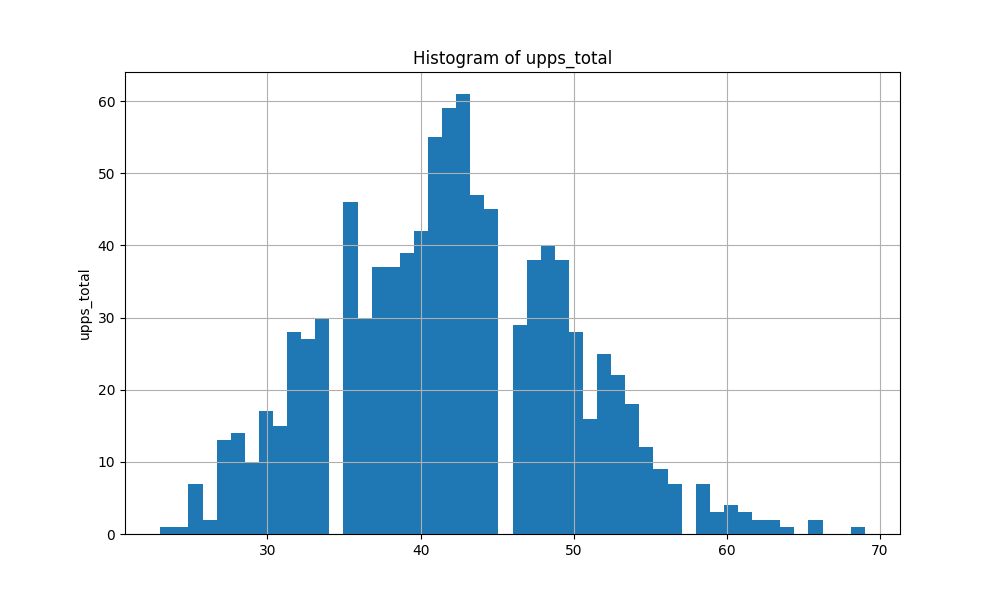
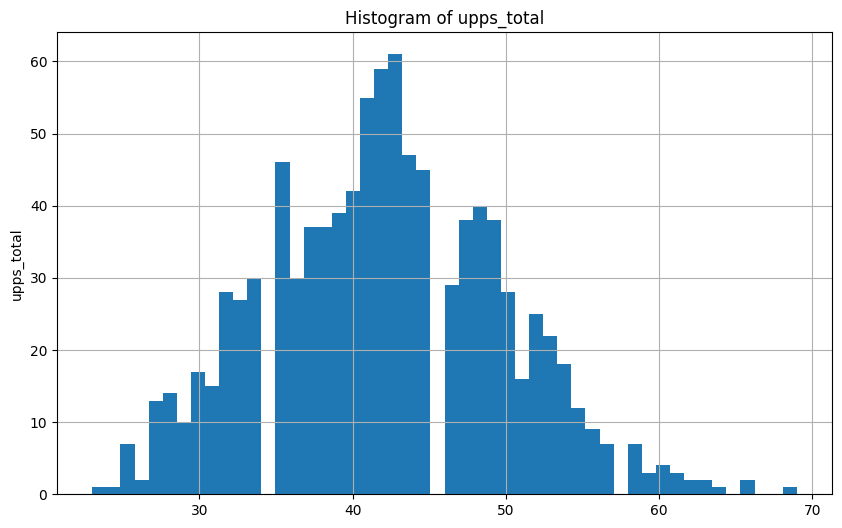
fix plots

diff --git a/src/2_run_models.py b/src/2_run_models.py
@@ -41,12 +41,12 @@ def plot_outcome(df: pd.DataFrame):
     plt.ylabel(last_column_name)
     plt.grid(True)
 
-    plt.savefig(f'plots/hist_{last_column_name}.png')
+    plt.savefig(f'plots/hist_{last_column_name}.png', bbox_inches='tight')
 
 def plot_correlations(df: pd.DataFrame):
     last_column_name = df.columns[-1]
     sns.clustermap(df.corr(), cmap='viridis')
-    plt.savefig(f'plots/corr_{last_column_name}.png')
+    plt.savefig(f'plots/corr_{last_column_name}.png', bbox_inches='tight')
 
 def create_splits(df:pd.DataFrame):
     X = df.iloc[:,:-1].values
@@ -220,13 +220,13 @@ def loop_through_dfs(list_of_dfs):
         # check model performances
         print("Comparing models...")
         perf_df = pd.DataFrame(model_performances)
-        plt.figure(figsize=(10, 8))
+        plt.figure(figsize=(10, 6))
         sns.scatterplot(data=perf_df.sort_values(by='rmse', ascending=False), 
                         y='model', 
                         x='rmse', 
                         marker='s', 
                         hue='split', palette=['darkorange', 'grey', 'darkred'])
-        plt.savefig(f'plots/model_perfs_{idx}.png')
+        plt.savefig(f'plots/model_perfs_{idx}.png', bbox_inches='tight')
         print("...Model performances saved!")
 
 def main():
